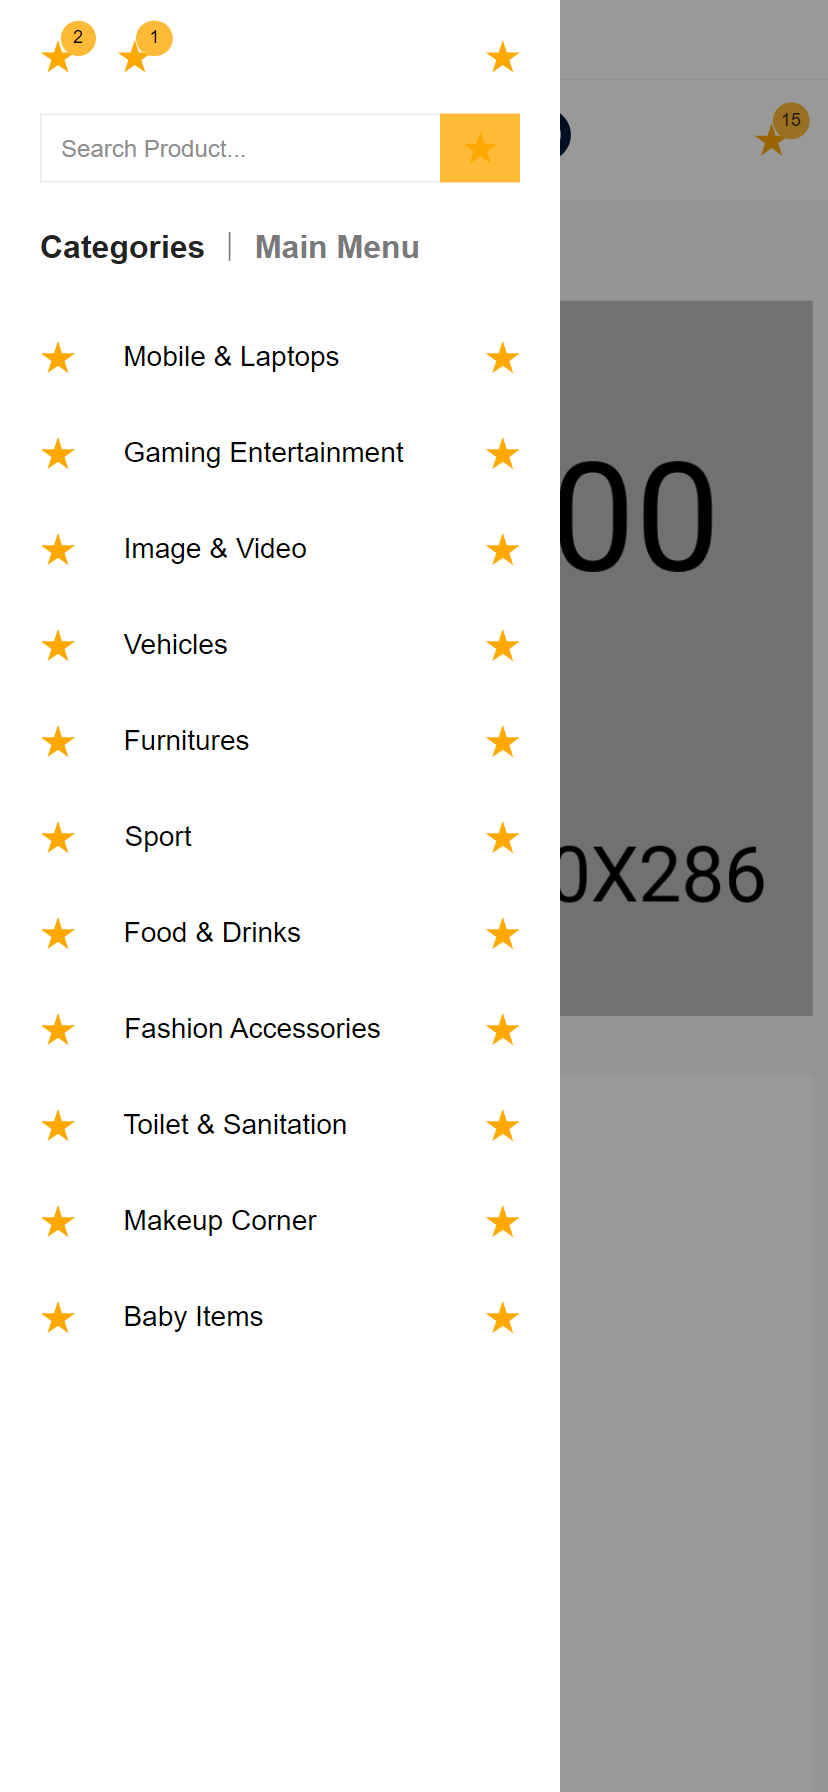
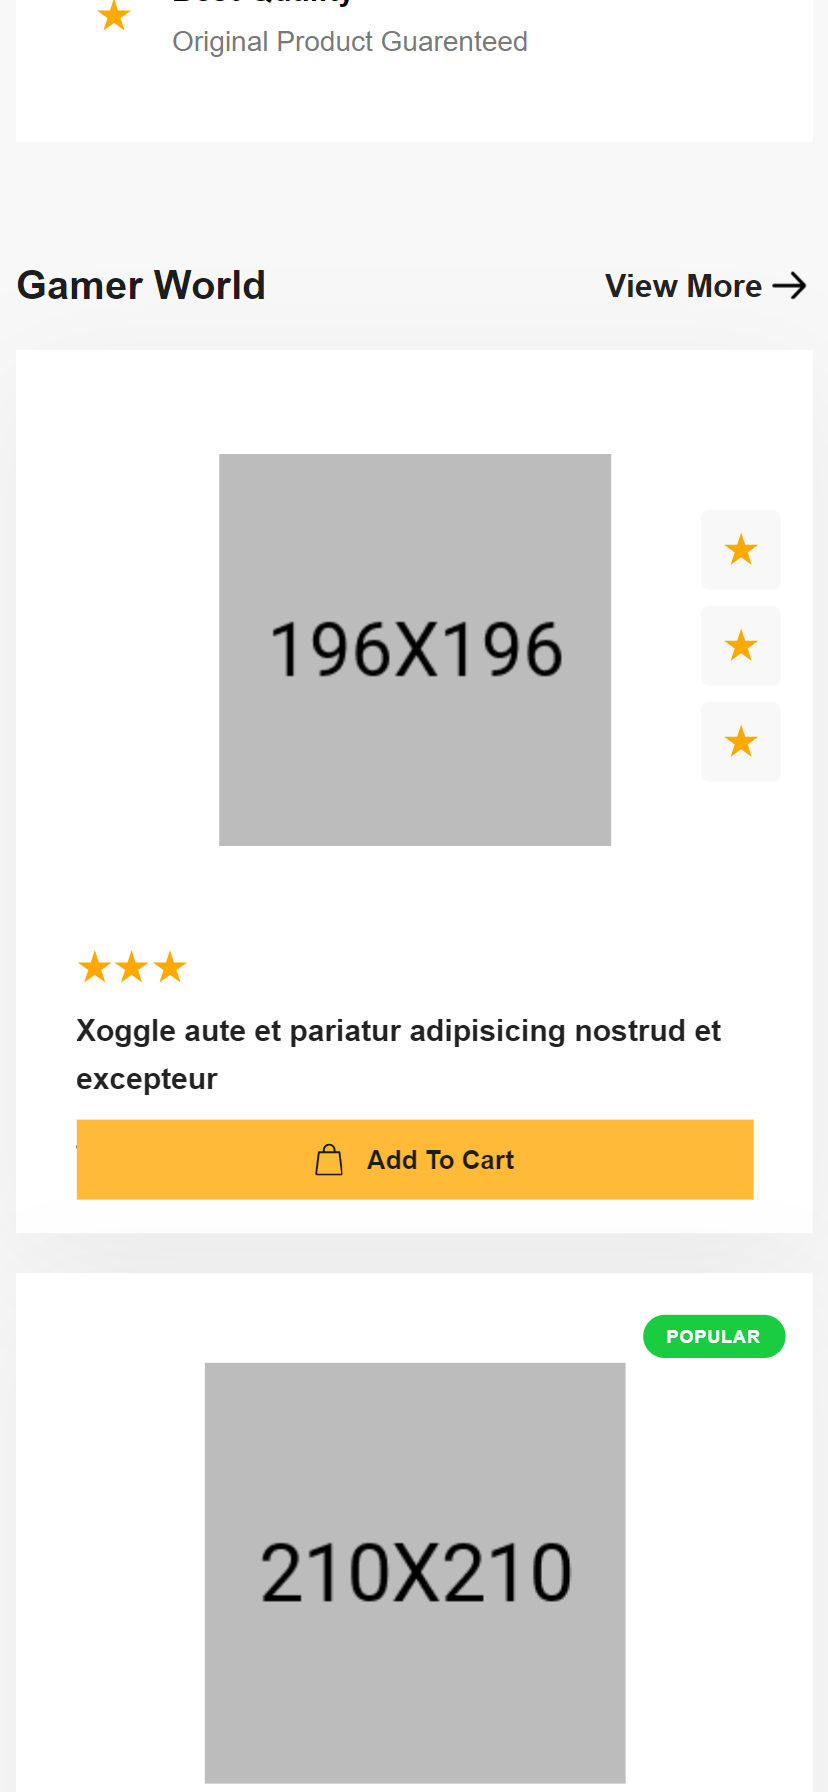
inside navbar all categories is deleted

diff --git a/src/components/Headers/Navbar.jsx b/src/components/Headers/Navbar.jsx
@@ -1,26 +1,10 @@
 import { useEffect, useState } from "react";
 import Star from "../svg/Star";
-import Arrow from "../svg/Arrow";
-const categoriesList = [
-  { id: "1", category: "Mobile & Laptops" },
-  { id: "2", category: "Gaming Entertainment" },
-  { id: "3", category: "Image & Video" },
-  { id: "4", category: "Vehicles" },
-  { id: "5", category: "Furnitures" },
-  { id: "6", category: "Sport" },
-  { id: "7", category: "Food & Drinks" },
-  { id: "8", category: "Fashion Accessories" },
-  { id: "9", category: "Toilet & Sanitation" },
-  { id: "10", category: "Makeup Corner" },
-  { id: "11", category: "Baby Items" },
-];
+
 export default function Navbar({ className, type }) {
   const [categoryToggle, setToggle] = useState(false);
   const [elementsSize, setSize] = useState("0px");
-  const toggleHandler = () => setToggle(!categoryToggle);
-  const handler = () => {
-    setToggle(!categoryToggle);
-  };
+
   useEffect(() => {
     if (categoryToggle) {
       const getItems = document.querySelectorAll(`.categories-list li`).length;
@@ -39,76 +23,6 @@ export default function Navbar({ className, type }) {
         <div className="w-full h-full relative">
           <div className="w-full h-full flex justify-between items-center">
             <div className="category-and-nav flex xl:space-x-7 space-x-3 items-center">
-              <div className="category w-[270px] h-[53px] bg-white px-5 rounded-t-md mt-[6px] relative">
-                <button
-                  onClick={handler}
-                  type="button"
-                  className="w-full h-full flex justify-between items-center"
-                >
-                  <div className="flex space-x-3 items-center">
-                    <span>
-                      <svg
-                        className="fill-current"
-                        width="14"
-                        height="9"
-                        viewBox="0 0 14 9"
-                        fill="none"
-                        xmlns="http://www.w3.org/2000/svg"
-                      >
-                        <rect width="14" height="1" />
-                        <rect y="8" width="14" height="1" />
-                        <rect y="4" width="10" height="1" />
-                      </svg>
-                    </span>
-                    <span className="text-sm font-600 text-qblacktext">
-                      All Categories
-                    </span>
-                  </div>
-                  <div>
-                    <Arrow
-                      width="5.78538"
-                      height="1.28564"
-                      className="fill-current text-qblacktext"
-                    />
-                  </div>
-                </button>
-                {categoryToggle && (
-                  <div
-                    className="fixed top-0 left-0 w-full h-full -z-10"
-                    onClick={toggleHandler}
-                  ></div>
-                )}
-                <div
-                  className="category-dropdown w-full absolute left-0 top-[53px] overflow-hidden"
-                  style={{ height: elementsSize }}
-                >
-                  <ul className="categories-list">
-                    {categoriesList.map((category) => (
-                      <li className="category-item" key={category.id}>
-                        <a to="">
-                          <div
-                            className={`flex justify-between items-center px-5 h-10 bg-white transition-all duration-300 ease-in-out cursor-pointer text-qblack ${
-                              type === 3
-                                ? "hover:bg-qh3-blue hover:text-white"
-                                : "hover:bg-qyellow"
-                            }`}
-                          >
-                            <div className="flex items-center space-x-6">
-                              <Star />
-                              <span className="text-xs font-400">
-                                {category.category}
-                              </span>
-                            </div>
-                            <div>
-                              <Star />
-                            </div>
-                          </div>
-                        </a>
-                      </li>
-                    ))}
-                  </ul>
-                </div>
-              </div>
               <div className="nav">
                 <ul className="nav-wrapper flex xl:space-x-10 space-x-5">
                   <li className="relative">

diff --git a/src/index.css b/src/index.css
@@ -1,46 +1,46 @@
 @font-face {
   font-family: "Inter";
-  src: url("/public/assets/fonts/Inter-Black.ttf");
+  src: url("/assets/fonts/Inter-Black.ttf");
   font-weight: 900;
 }
 @font-face {
   font-family: "Inter";
-  src: url("/public/assets/fonts/Inter-Bold.ttf");
+  src: url("/assets/fonts/Inter-Bold.ttf");
   font-weight: 700;
 }
 @font-face {
   font-family: "Inter";
-  src: url("/public/assets/fonts/Inter-ExtraBold.ttf");
+  src: url("/assets/fonts/Inter-ExtraBold.ttf");
   font-weight: 800;
 }
 @font-face {
   font-family: "Inter";
-  src: url("/public/assets/fonts/Inter-ExtraLight.ttf");
+  src: url("/assets/fonts/Inter-ExtraLight.ttf");
   font-weight: 200;
 }
 @font-face {
   font-family: "Inter";
-  src: url("/public/assets/fonts/Inter-Light.ttf");
+  src: url("/assets/fonts/Inter-Light.ttf");
   font-weight: 300;
 }
 @font-face {
   font-family: "Inter";
-  src: url("/public/assets/fonts/Inter-Medium.ttf");
+  src: url("/assets/fonts/Inter-Medium.ttf");
   font-weight: 500;
 }
 @font-face {
   font-family: "Inter";
-  src: url("/public/assets/fonts/Inter-Regular.ttf");
+  src: url("/assets/fonts/Inter-Regular.ttf");
   font-weight: 400;
 }
 @font-face {
   font-family: "Inter";
-  src: url("/public/assets/fonts/Inter-SemiBold.ttf");
+  src: url("/assets/fonts/Inter-SemiBold.ttf");
   font-weight: 600;
 }
 @font-face {
   font-family: "Inter";
-  src: url("/public/assets/fonts/Inter-Thin.ttf");
+  src: url("/assets/fonts/Inter-Thin.ttf");
   font-weight: 100;
 }
 
